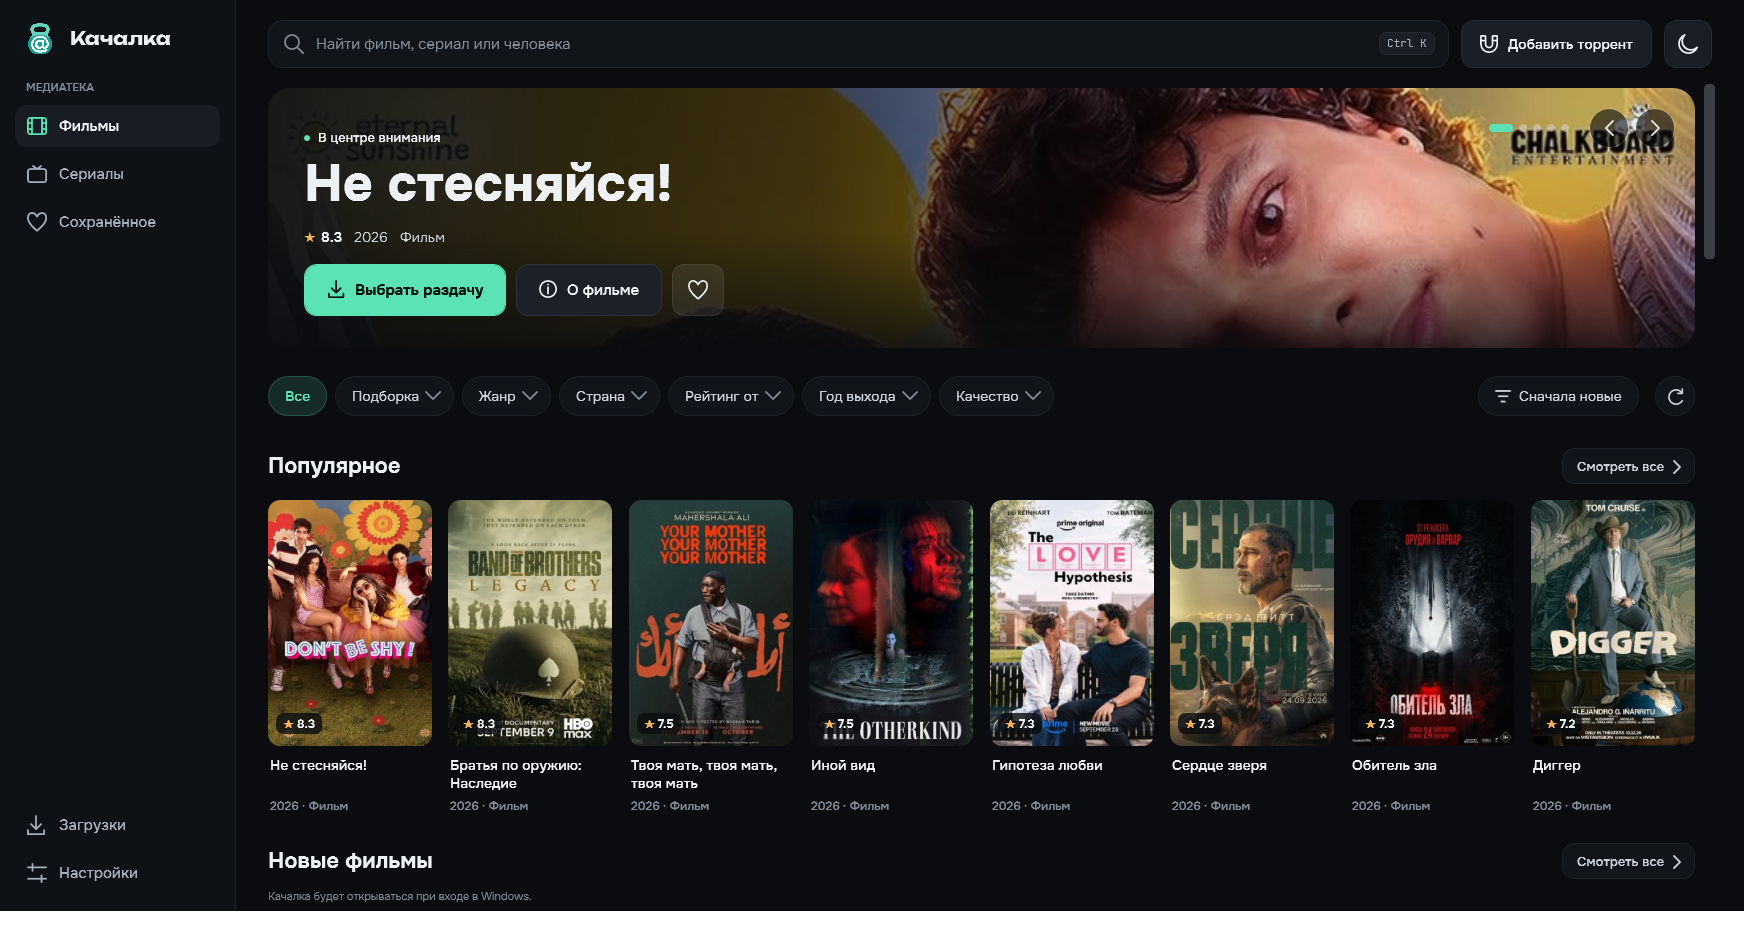
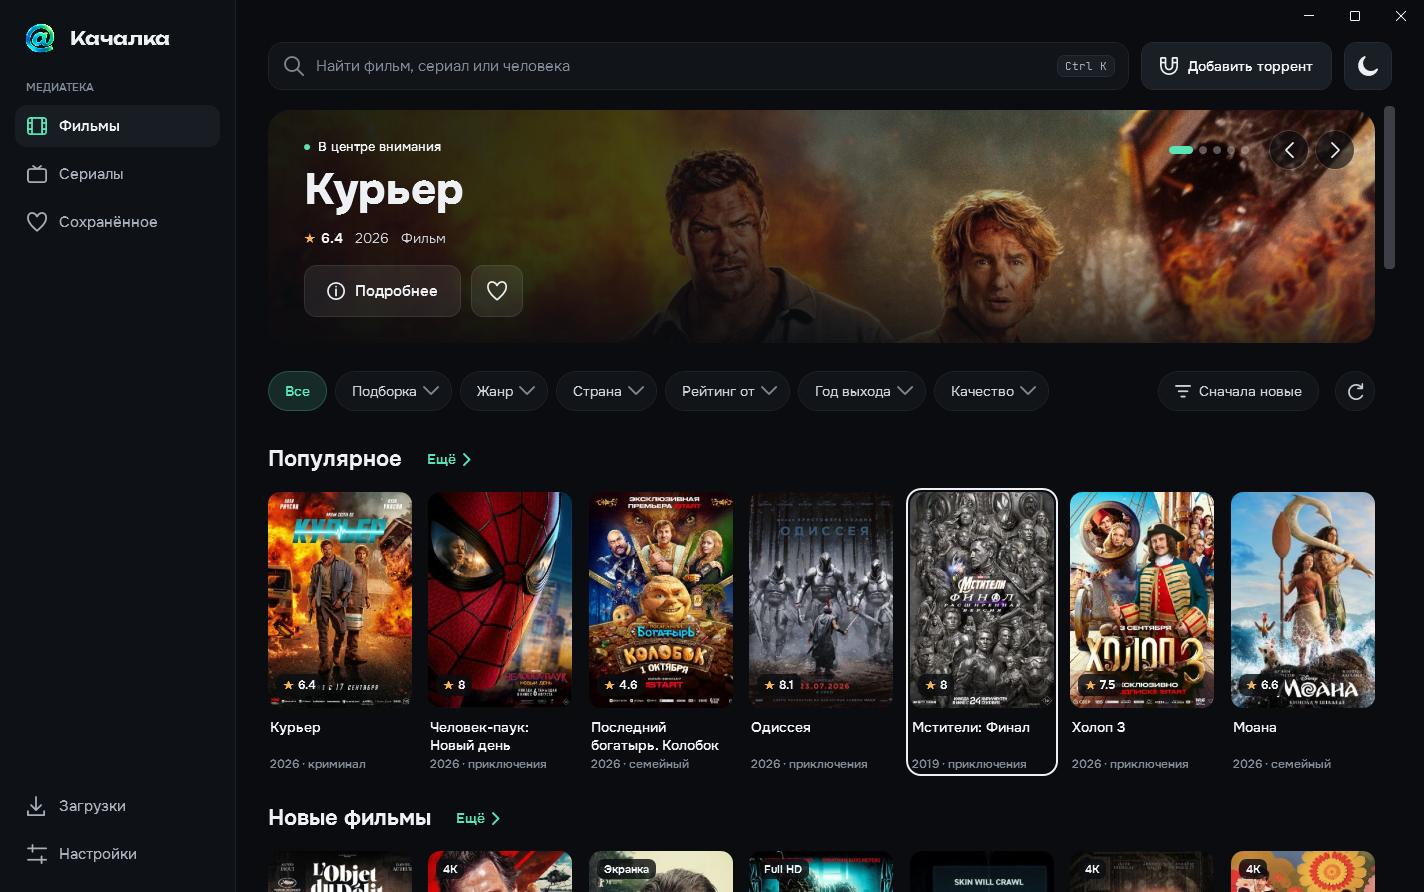
Refresh GitHub gallery with verified 0.40.18 Windows screenshots

diff --git a/distribution/README.md b/distribution/README.md
@@ -6,9 +6,9 @@
 
 [Все выпуски и изменения](https://github.com/peregond/ka4alka/releases) · [Каталог «Ка4алка Онл@йн»](https://ka4alka-online-new.peregon.chatgpt.site/)
 
-## Скриншоты 0.40.5
+## Скриншоты 0.40.18
 
-Каталог фильмов · тёмная тема.
+Снимки опубликованной версии 0.40.18 для Windows. Каталог фильмов · тёмная тема.
 
 [![Каталог фильмов в тёмной теме](assets/0.40/catalog-dark.png)](assets/0.40/catalog-dark.png)
 
@@ -18,6 +18,10 @@
 ### Светлая тема
 
 [![Светлая тема](assets/0.40/catalog-light.png)](assets/0.40/catalog-light.png)
+
+### Каталог сериалов
+
+[![Каталог сериалов](assets/0.40/series-dark.png)](assets/0.40/series-dark.png)
 
 ### Карточка фильма
 
@@ -35,7 +39,7 @@
 
 ### Подтверждение связи устройств
 
-[![Подтверждение связи устройств](assets/0.39/lan-pairing-dark.png)](assets/0.39/lan-pairing-dark.png)
+[![Подтверждение связи устройств](assets/0.40/lan-pairing-dark.png)](assets/0.40/lan-pairing-dark.png)
 
 </details>
 
@@ -67,7 +71,7 @@
 
 ## Загрузка на другое устройство
 
-На двух компьютерах в одной домашней IPv4-сети откройте 0.40.5 и включите «Устройства в сети» в настройках. По умолчанию имя берётся из модели компьютера; его можно поменять. Найдите второй компьютер автоматически или введите его локальный IPv4-адрес, затем сравните одинаковый 12-символьный код и подтвердите сопряжение на обоих экранах.
+На двух компьютерах в одной домашней IPv4-сети откройте 0.40.18 и включите «Устройства в сети» в настройках. По умолчанию имя берётся из модели компьютера; его можно поменять. Найдите второй компьютер автоматически или введите его локальный IPv4-адрес, затем сравните одинаковый 12-символьный код и подтвердите сопряжение на обоих экранах.
 
 В выбранной раздаче нажмите «Скачать на другом устройстве». После добавления задания появится подтверждение; получатель скачивает файлы в свою настроенную папку. Обе программы должны оставаться открытыми для передачи задания. Брандмауэр должен разрешать входящие подключения Качалки в частной сети; это действие доступно в настройках и отдельно запрашивает права администратора. Гостевая Wi-Fi-сеть с изоляцией клиентов может блокировать связь даже по указанному адресу.
 

diff --git a/distribution/RELEASE-NOTES-0.40.18.md b/distribution/RELEASE-NOTES-0.40.18.md
@@ -5,3 +5,38 @@
 Включены все изменения 0.40.17: окно занимает всю высоту, развёрнутое окно корректно заполняет рабочую область, а страница актёра и каталог сохраняют стабильную вёрстку при изменении размера окна.
 
 Настройки и очередь загрузок сохраняются. Обновление использует существующий механизм проверки подписи и скачивания изменённых компонентов.
+
+## Скриншоты 0.40.18
+
+Снимки опубликованного приложения для Windows. В очереди показаны демонстрационные задачи.
+
+![Каталог фильмов в тёмной теме](https://github.com/peregond/ka4alka/releases/download/v0.40.18/screenshot-catalog-dark.png)
+
+<details>
+<summary>Светлая тема, сериалы, карточка фильма, загрузки и настройки</summary>
+
+### Светлая тема
+
+![Светлая тема](https://github.com/peregond/ka4alka/releases/download/v0.40.18/screenshot-catalog-light.png)
+
+### Каталог сериалов
+
+![Каталог сериалов](https://github.com/peregond/ka4alka/releases/download/v0.40.18/screenshot-series-dark.png)
+
+### Карточка фильма
+
+![Карточка фильма](https://github.com/peregond/ka4alka/releases/download/v0.40.18/screenshot-detail-dark.png)
+
+### Пример очереди загрузок
+
+![Пример очереди загрузок](https://github.com/peregond/ka4alka/releases/download/v0.40.18/screenshot-downloads-dark.png)
+
+### Настройки
+
+![Настройки](https://github.com/peregond/ka4alka/releases/download/v0.40.18/screenshot-settings-dark.png)
+
+### Подтверждение связи устройств
+
+![Подтверждение связи устройств](https://github.com/peregond/ka4alka/releases/download/v0.40.18/screenshot-lan-pairing-dark.png)
+
+</details>

diff --git a/README.md b/README.md
@@ -2,6 +2,8 @@
 
 # Качалка · 0.40.18
 
+[Актуальные скриншоты приложения](distribution/README.md) · [Релиз 0.40.18](https://github.com/peregond/ka4alka/releases/tag/v0.40.18)
+
 В 0.40.18 обновлён логотип: бирюзово-зелёный знак @ используется внутри приложения, в иконках Windows, уведомлениях, установщике и обновляторе. Сохранены исправления окна и масштабирования из 0.40.17. Подробности — в [заметках к выпуску](distribution/RELEASE-NOTES-0.40.18.md).
 
 В 0.40.17 окно занимает всю высоту: боковая панель доходит до верхнего края, а кнопки окна нарисованы в правом верхнем углу. Развёрнутое окно закрывает экран целиком, а страница актёра больше не зацикливается при некоторых размерах окна. Подробности — в [заметках к выпуску](distribution/RELEASE-NOTES-0.40.17.md).
